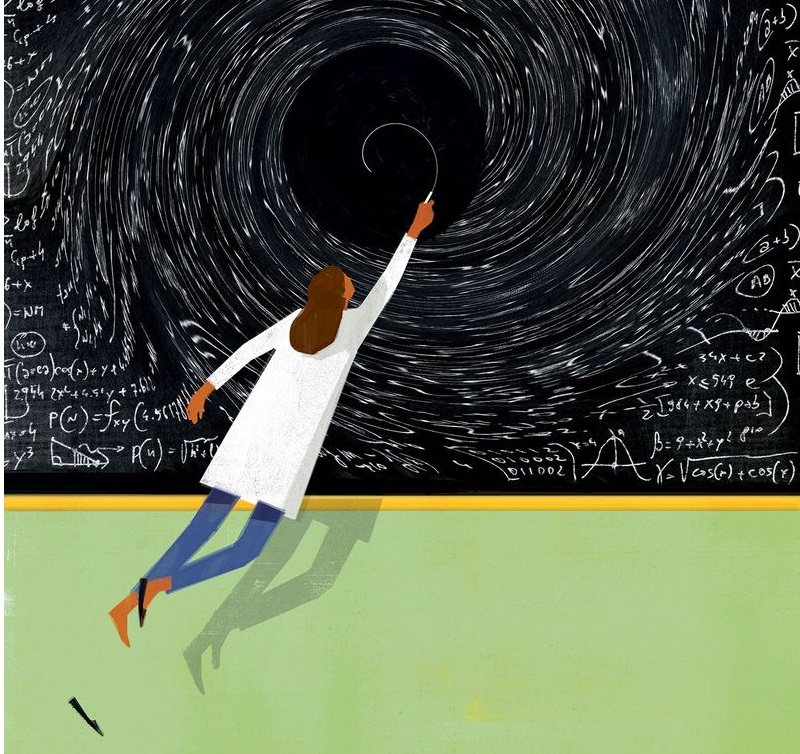
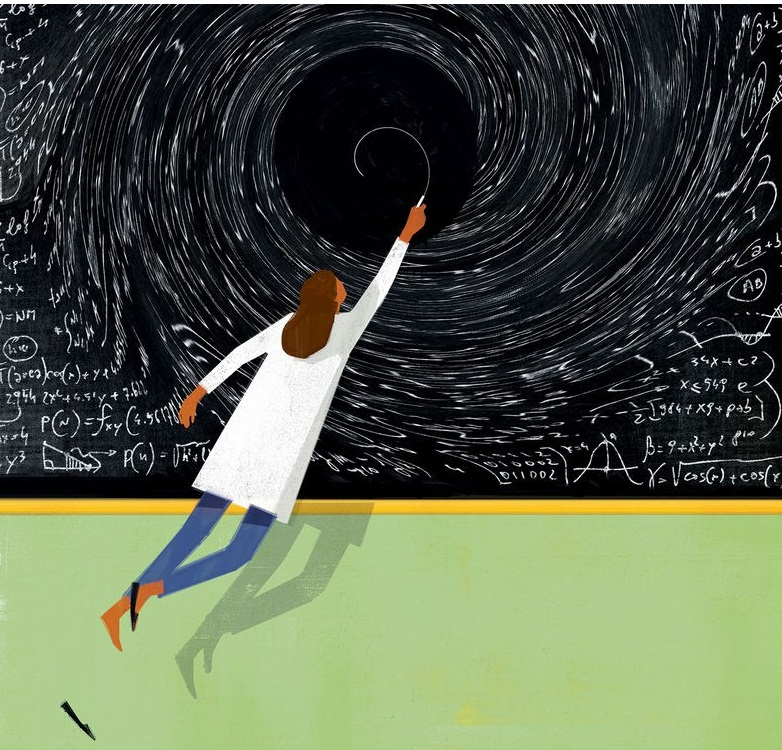
.

diff --git a/aboutme.md b/aboutme.md
@@ -10,7 +10,7 @@ last-updated: 2022-09-24
 
 I am a Data Scientist with an MSci in Mathematics, with First Class Honours, and a PhD in Applied Mathematics and Theoretical Physics, and as such I have a lot of analytical experience including theoretical and applied techniques in mathematics, statistical and numerical methods. 
 
-<p align="center"><img src="/assets/img/tp.jpeg" alt="isolated" width="400"/></p>
+<p align="center"><img src="/assets/img/tp.jpeg" alt="isolated" width="350"/></p>
 
 I am an expert in Python code development, creating analytical data pipelines (ETL, RAP) and deploying machine learning models at scale, using cloud services (e.g GCP, Cloudera) and technologies such as Apache Spark or BigQuery with SQL.
 
